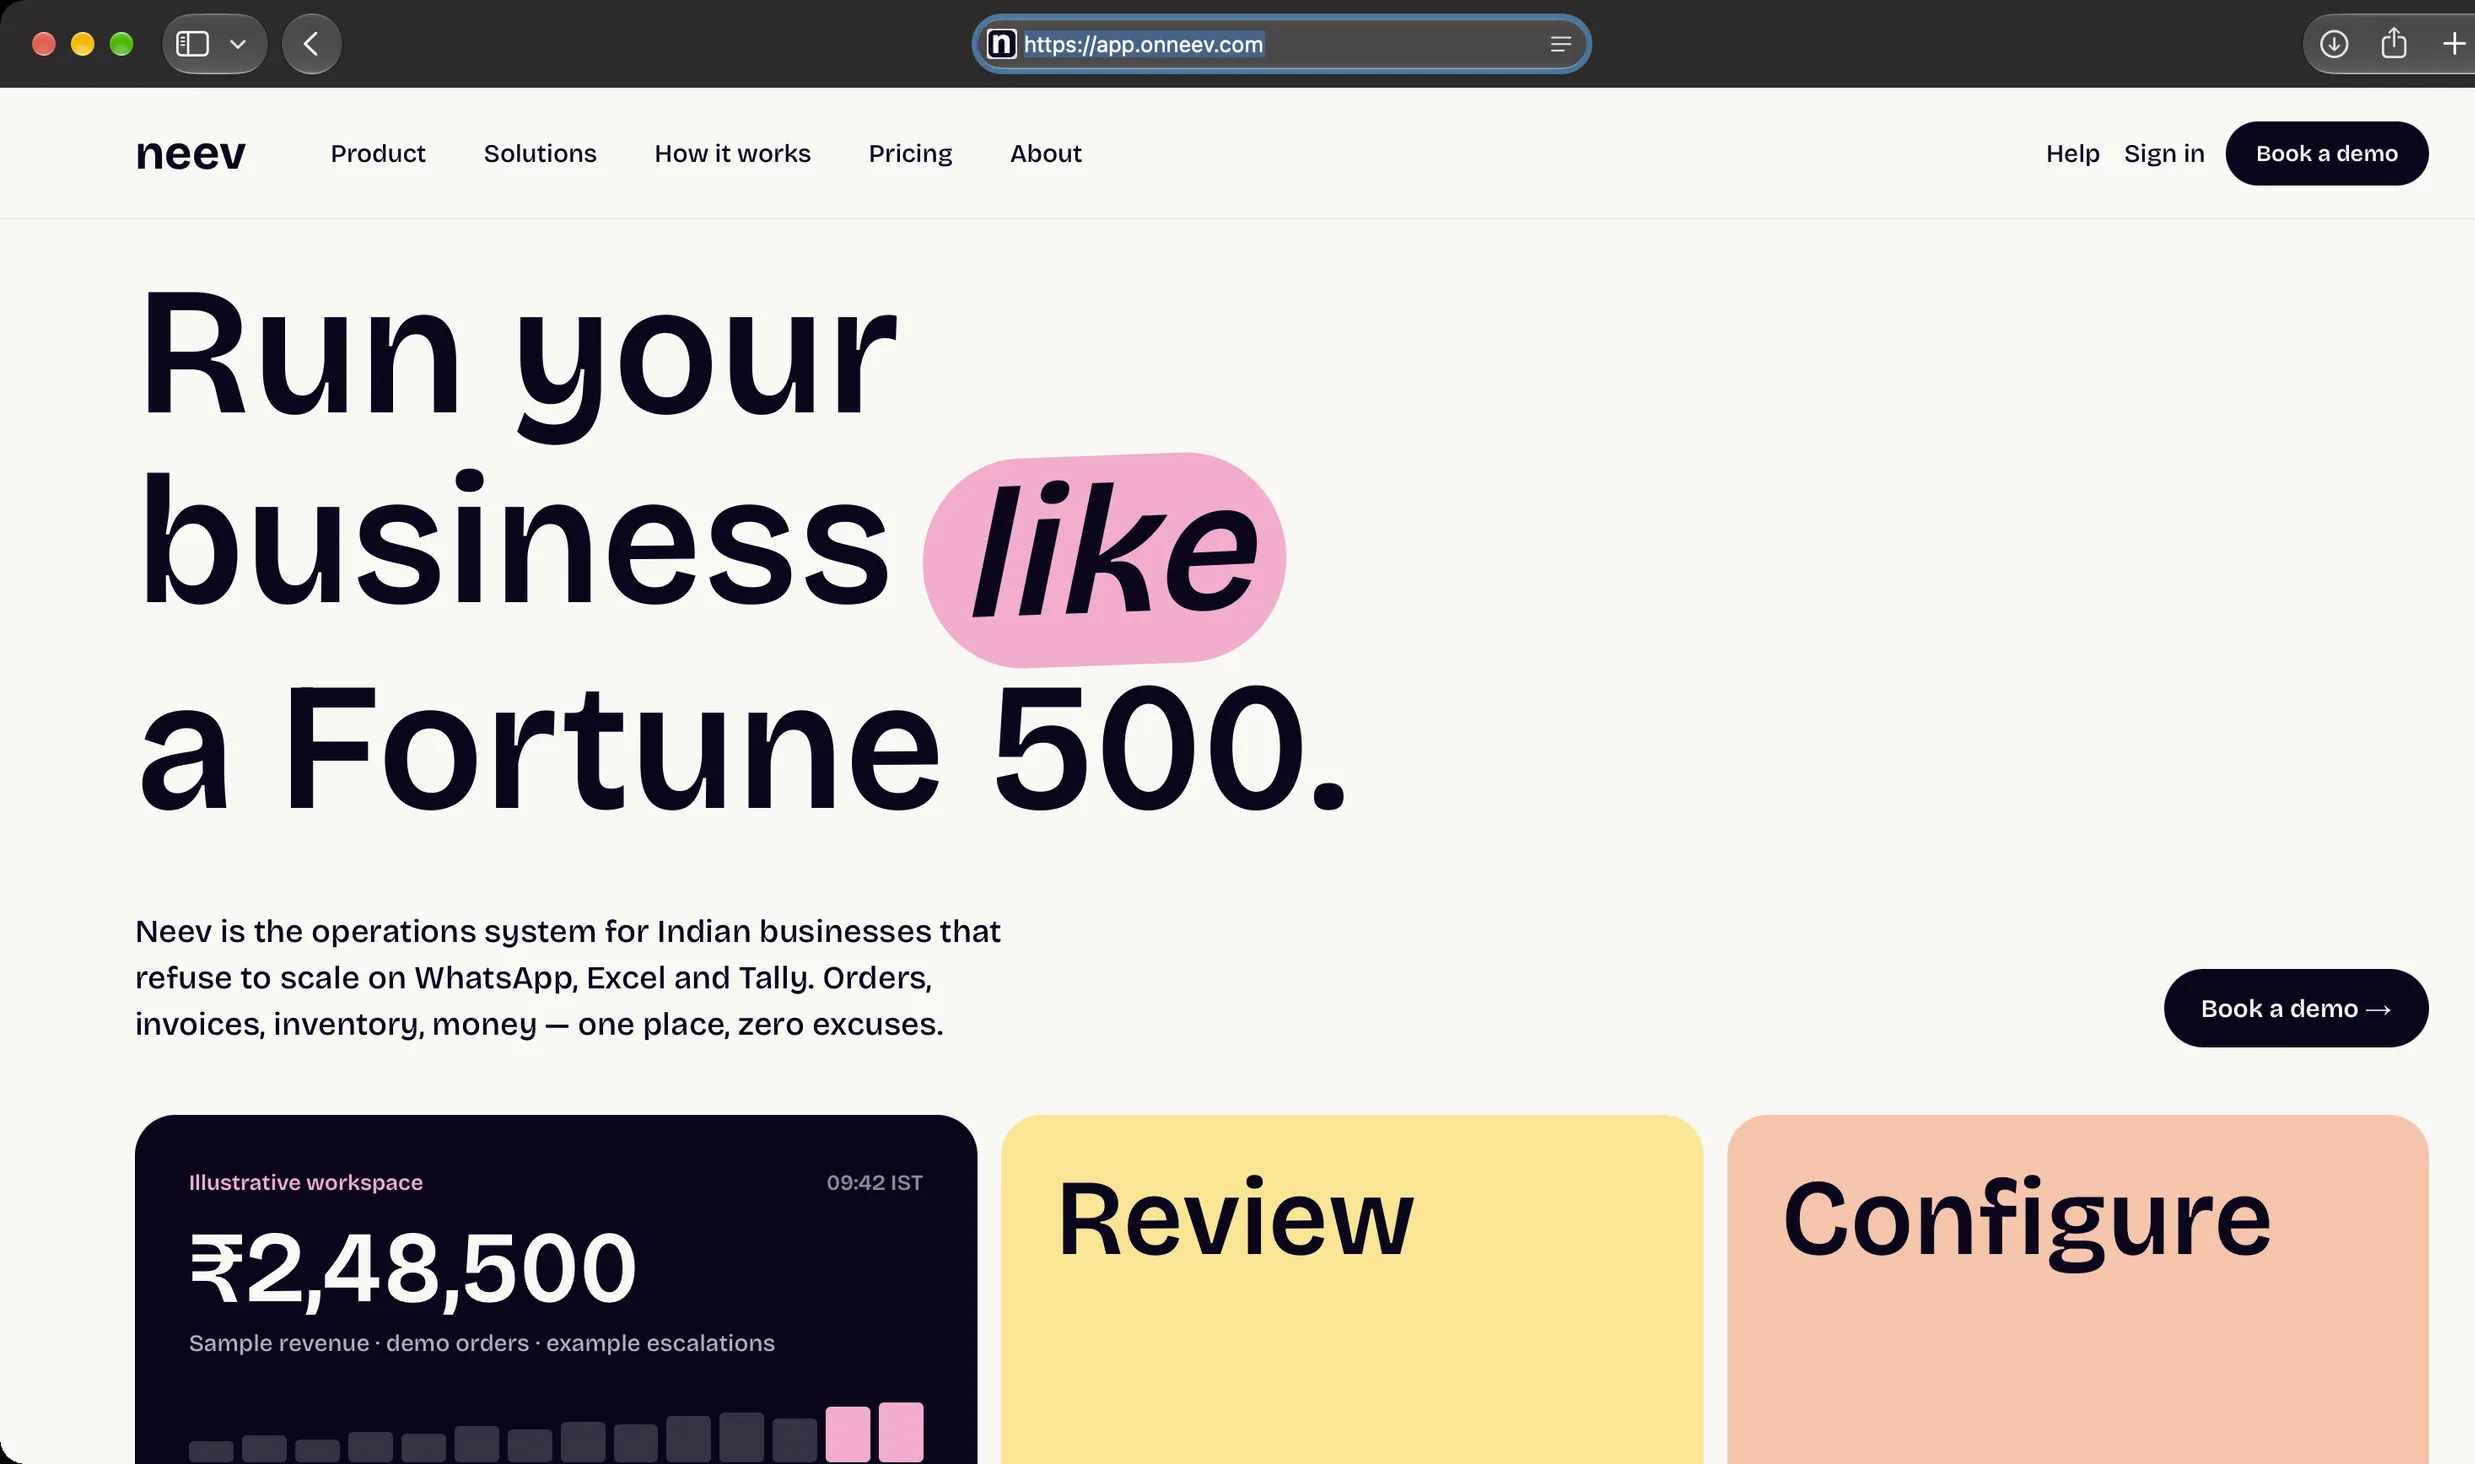
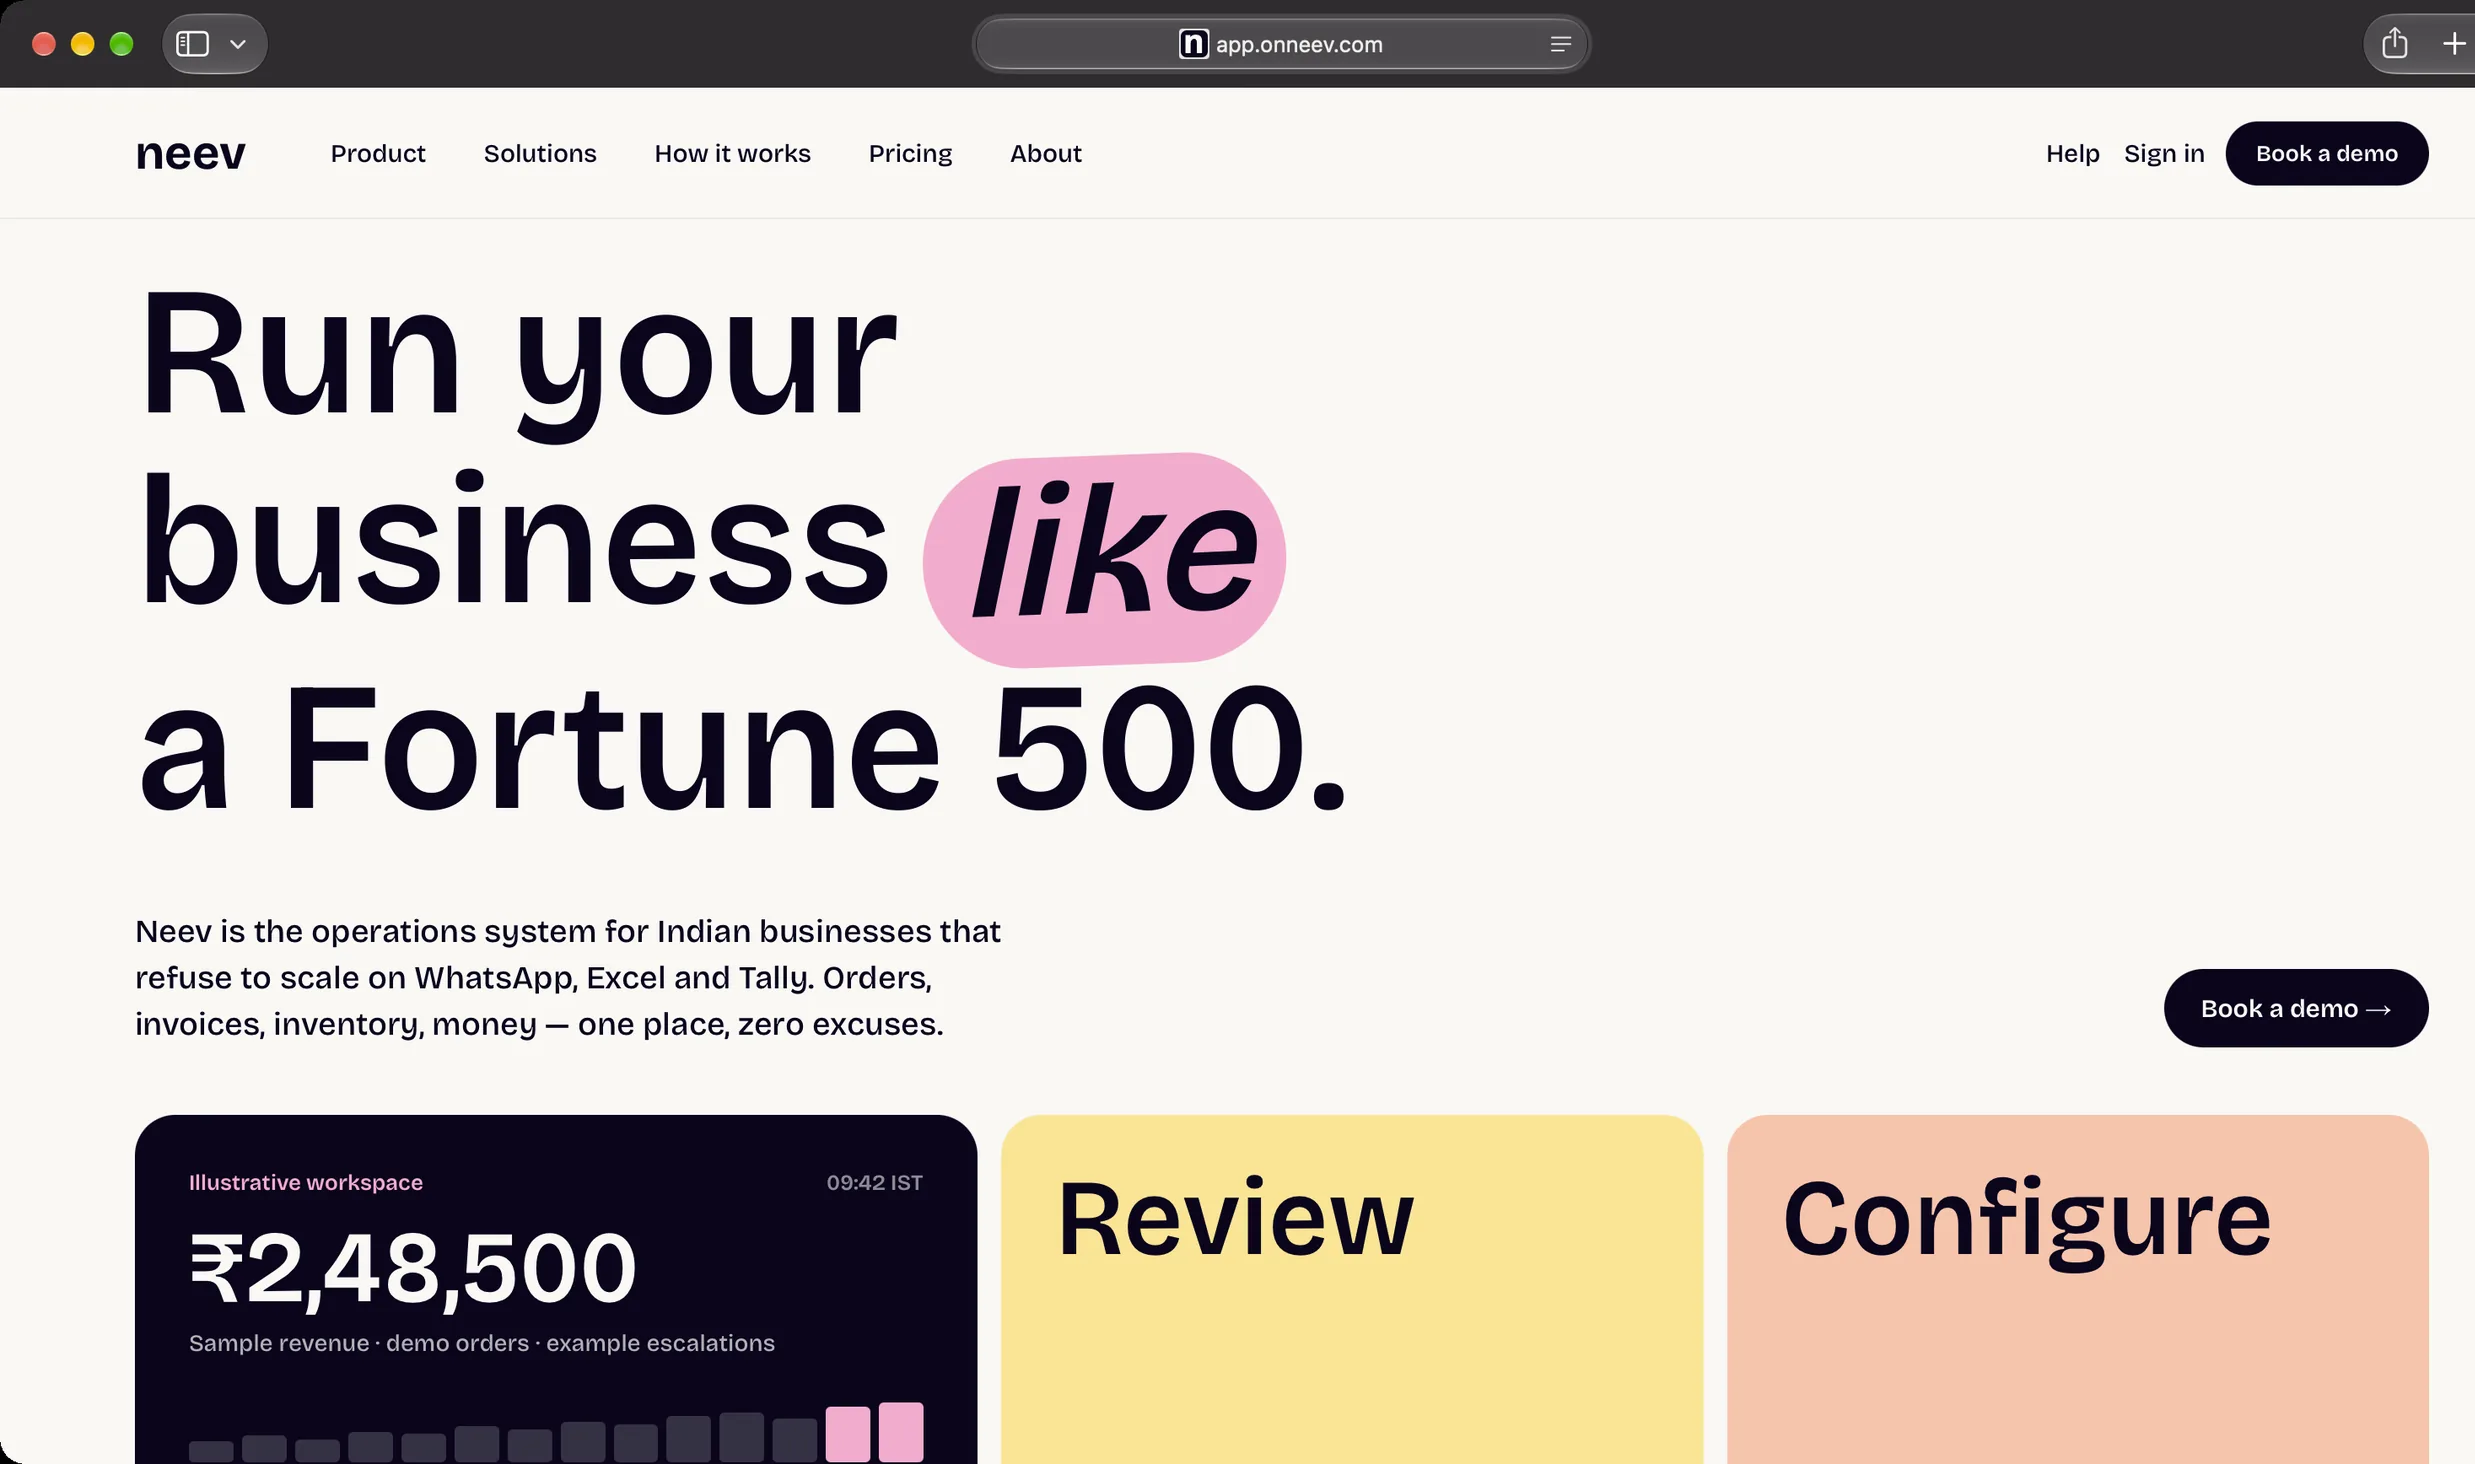
chore: retake product overlays in Safari without selected address bar

Changed region(s): [[0.3733, 0.0, 0.6533, 0.0615], [0.0933, 0.0, 0.1556, 0.0615], [0.9333, 0.0, 0.9644, 0.0615]]

diff --git a/index.html b/index.html
@@ -37,7 +37,7 @@
   <link rel="icon" type="image/png" sizes="32x32" href="/favicon-32x32.png" />
   <link rel="apple-touch-icon" sizes="180x180" href="/apple-touch-icon.png" />
   <link rel="manifest" href="/site.webmanifest" />
-  <link rel="stylesheet" href="assets/css/styles-v10.css?v=17" />
+  <link rel="stylesheet" href="assets/css/styles-v10.css?v=18" />
   <script>
     (function() {
       try {
@@ -312,29 +312,29 @@
       </div>
 
       <div class="partners-grid" role="region" aria-label="Partner and client logos">
-        <div class="partner-logo">
-          <img src="assets/images/partners/digitalocean.svg" alt="DigitalOcean" loading="lazy" width="287" height="80" />
+        <div class="partner-logo partner-logo--digitalocean">
+          <img src="assets/images/partners/digitalocean.svg" alt="DigitalOcean" loading="lazy" width="220" height="220" />
         </div>
-        <div class="partner-logo">
-          <img src="assets/images/partners/damac.svg" alt="DAMAC Properties" loading="lazy" width="287" height="74" />
+        <div class="partner-logo partner-logo--damac">
+          <img src="assets/images/partners/damac.svg" alt="DAMAC Properties" loading="lazy" width="280" height="37" />
         </div>
-        <div class="partner-logo">
-          <img src="assets/images/partners/reliance.svg" alt="Reliance Industries" loading="lazy" width="287" height="84" />
+        <div class="partner-logo partner-logo--reliance">
+          <img src="assets/images/partners/reliance.svg" alt="Reliance Industries" loading="lazy" width="220" height="152" />
         </div>
-        <div class="partner-logo">
-          <img src="assets/images/partners/pwc.svg" alt="PwC (PricewaterhouseCoopers)" loading="lazy" width="176" height="84" />
+        <div class="partner-logo partner-logo--pwc">
+          <img src="assets/images/partners/pwc.svg" alt="PwC (PricewaterhouseCoopers)" loading="lazy" width="200" height="152" />
         </div>
-        <div class="partner-logo">
-          <img src="assets/images/partners/australian-government.svg" alt="Australian Government" loading="lazy" width="287" height="88" />
+        <div class="partner-logo partner-logo--australia">
+          <img src="assets/images/partners/australian-government.svg" alt="Australian Government" loading="lazy" width="280" height="68" />
         </div>
-        <div class="partner-logo">
-          <img src="assets/images/partners/vit.svg" alt="VIT (Vellore Institute of Technology)" loading="lazy" width="262" height="84" />
+        <div class="partner-logo partner-logo--vit">
+          <img src="assets/images/partners/vit.svg" alt="VIT (Vellore Institute of Technology)" loading="lazy" width="160" height="168" />
         </div>
-        <div class="partner-logo">
-          <img src="assets/images/partners/aws.svg" alt="Amazon Web Services" loading="lazy" width="195" height="84" />
+        <div class="partner-logo partner-logo--aws">
+          <img src="assets/images/partners/aws.svg" alt="Amazon Web Services" loading="lazy" width="200" height="120" />
         </div>
-        <div class="partner-logo">
-          <img src="assets/images/partners/zoho.svg" alt="Zoho Corporation" loading="lazy" width="228" height="78" />
+        <div class="partner-logo partner-logo--zoho">
+          <img src="assets/images/partners/zoho.svg" alt="Zoho Corporation" loading="lazy" width="220" height="97" />
         </div>
       </div>
     </section>
@@ -477,7 +477,7 @@
           <div class="product-visual product-visual--layered">
             <figure class="product-interface-figure product-visual-stack">
               <img class="product-visual-background" src="assets/images/product-clusterbid-background.webp" alt="" width="2560" height="1435" aria-hidden="true" />
-              <img class="product-visual-foreground" src="assets/images/product-clusterbid-overlay.webp" alt="ClusterBid homepage hero showing The Right Compute, Faster over forest gateway art" width="2475" height="1464" />
+              <img class="product-visual-foreground" src="assets/images/product-clusterbid-overlay.webp?v=2" alt="ClusterBid homepage hero showing The Right Compute, Faster over forest gateway art" width="2475" height="1464" />
             </figure>
           </div>
         </section>
@@ -520,7 +520,7 @@
           <div class="product-visual product-visual--layered">
             <figure class="product-interface-figure product-visual-stack">
               <img class="product-visual-background" src="assets/images/product-neev-background.webp" alt="" width="2560" height="1435" aria-hidden="true" />
-              <img class="product-visual-foreground" src="assets/images/product-neev-overlay.webp" alt="Neev homepage hero showing Run your business like a Fortune 500 with revenue workspace cards" width="2475" height="1464" />
+              <img class="product-visual-foreground" src="assets/images/product-neev-overlay.webp?v=2" alt="Neev homepage hero showing Run your business like a Fortune 500 with revenue workspace cards" width="2475" height="1464" />
             </figure>
           </div>
         </section>
@@ -563,7 +563,7 @@
           <div class="product-visual product-visual--layered">
             <figure class="product-interface-figure product-visual-stack">
               <img class="product-visual-background" src="assets/images/product-curat-background.webp?v=3" alt="" width="2560" height="1435" aria-hidden="true" />
-              <img class="product-visual-foreground" src="assets/images/product-curat-overlay.webp?v=3" alt="Curat homepage hero showing Compare the World's Best Crypto Cards with card search" width="2475" height="1464" />
+              <img class="product-visual-foreground" src="assets/images/product-curat-overlay.webp?v=4" alt="Curat homepage hero showing Compare the World's Best Crypto Cards with card search" width="2475" height="1464" />
             </figure>
           </div>
         </section>
@@ -606,7 +606,7 @@
           <div class="product-visual product-visual--layered">
             <figure class="product-interface-figure product-visual-stack">
               <img class="product-visual-background" src="assets/images/product-vericite-background.webp" alt="" width="2560" height="1435" aria-hidden="true" />
-              <img class="product-visual-foreground" src="assets/images/product-vericite-overlay.webp" alt="VeriCite homepage hero showing Every student question, answered without another call to the office" width="2475" height="1464" />
+              <img class="product-visual-foreground" src="assets/images/product-vericite-overlay.webp?v=2" alt="VeriCite homepage hero showing Every student question, answered without another call to the office" width="2475" height="1464" />
             </figure>
           </div>
         </section>
